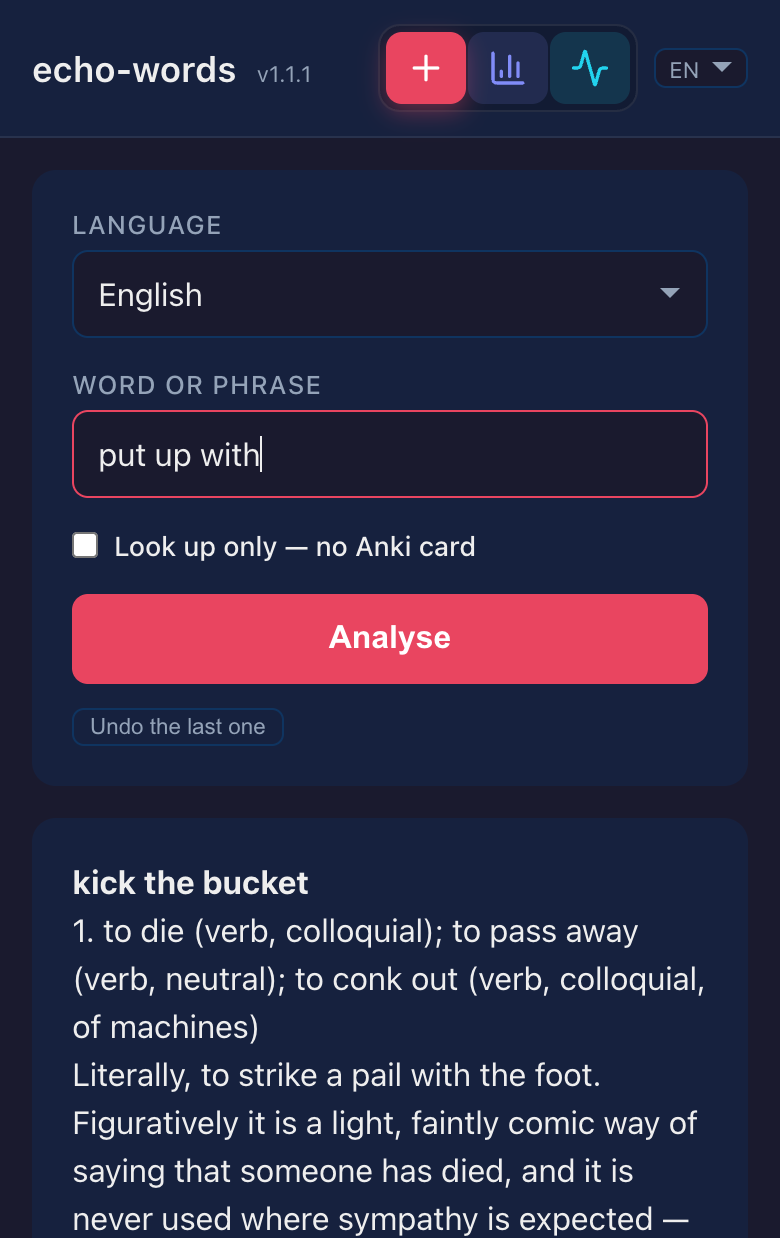
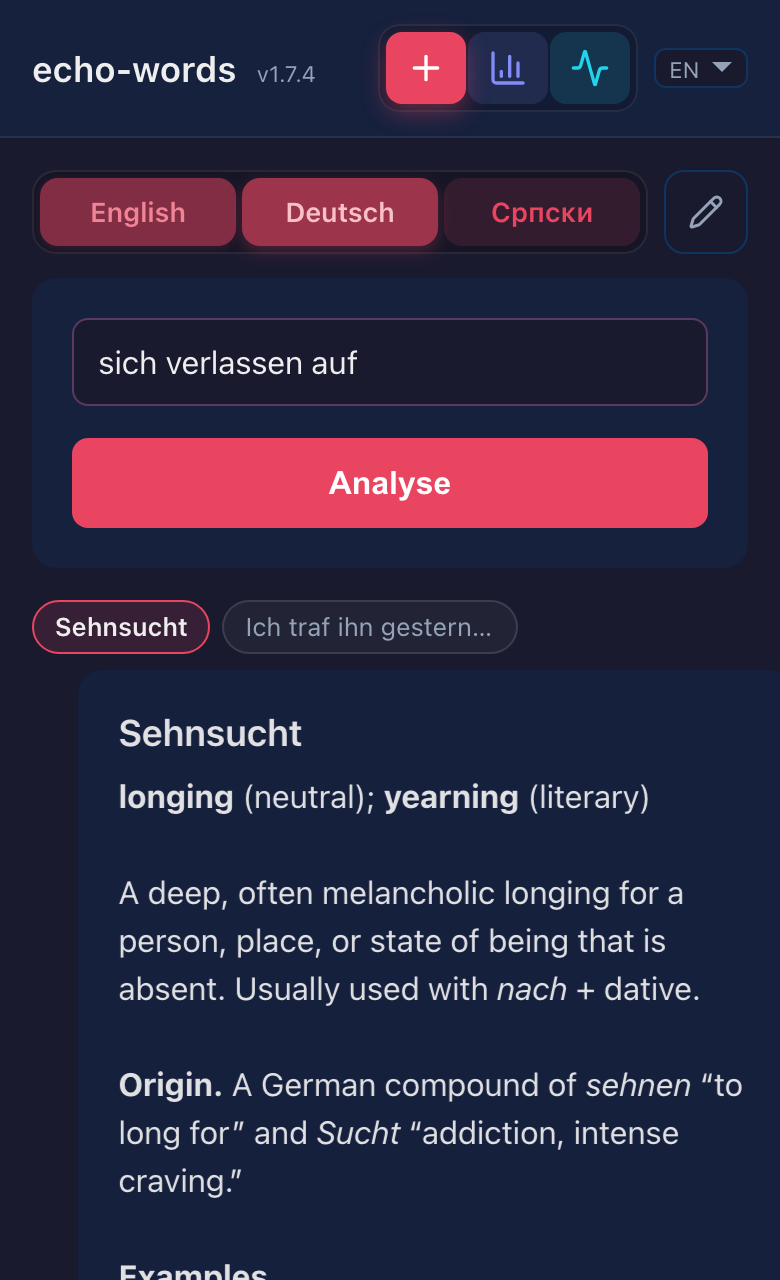
updated screenshots

diff --git a/scripts/capture_readme_screenshots.py b/scripts/capture_readme_screenshots.py
@@ -1,0 +1,202 @@
+"""Rebuild the PWA and capture the three README screenshots from stable demo data."""
+
+import argparse
+import asyncio
+import contextlib
+import io
+import subprocess
+import sys
+import threading
+import wave
+from collections.abc import Iterator
+from pathlib import Path
+
+import uvicorn
+from fastapi import FastAPI
+from fastapi.responses import Response, StreamingResponse
+from fastapi.staticfiles import StaticFiles
+from playwright.sync_api import sync_playwright
+
+REPO = Path(__file__).resolve().parents[1]
+SCREENSHOTS = REPO / "docs" / "common" / "images" / "screenshots"
+
+WORD_ENTRY = {
+    "entry_id": "word-demo",
+    "word": "Sehnsucht",
+    "lang": "de",
+    "language": "Deutsch",
+    "lookup_only": False,
+    "status": "done",
+    "shape": "unit",
+    "text": (
+        "<b>longing</b> (neutral); <b>yearning</b> (literary)\n\n"
+        "A deep, often melancholic longing for a person, place, or state of being "
+        "that is absent. Usually used with <i>nach</i> + dative.\n\n"
+        "<b>Origin.</b> A German compound of <i>sehnen</i> “to long for” and "
+        "<i>Sucht</i> “addiction, intense craving.”\n\n"
+        "<b>Examples</b>\n"
+        "<i>Ich habe große Sehnsucht nach dir.</i> — I miss you so much.\n"
+        "<i>Sie spürte Sehnsucht nach Freiheit.</i> — She yearned for freedom."
+    ),
+    "audio_url": "/demo.wav",
+    "segments": [
+        {
+            "label": "Sehnsucht",
+            "reason": "for a person",
+            "context": "Ich habe große Sehnsucht nach dir.",
+        },
+        {
+            "label": "Sehnsucht",
+            "reason": "for freedom",
+            "context": "Sie spürte Sehnsucht nach Freiheit.",
+        },
+    ],
+    "segment_kind": "senses",
+    "card_status": "added",
+    "card_kinds": [
+        "Recognition",
+        "Recall",
+        "ContextRecognition",
+        "ContextProduction",
+    ],
+    "detail_available": True,
+}
+
+SENTENCE = "Ich traf ihn gestern, weil er mir das Buch zurückgeben wollte."
+TEXT_ENTRY = {
+    "entry_id": "text-demo",
+    "word": SENTENCE,
+    "lang": "de",
+    "language": "Deutsch",
+    "lookup_only": False,
+    "status": "done",
+    "shape": "text",
+    "text": (
+        "<b>I met him yesterday because he wanted to give me the book back.</b>\n\n"
+        "<b>What is hard here</b>\n"
+        "<i>weil</i> sends the finite verb to the end of its clause, which is why "
+        "<i>wollte</i> comes last.\n\n"
+        "<i>zurückgeben</i> is separable, but beside the modal <i>wollen</i> it stays "
+        "as one infinitive.\n\n"
+        "<i>mir</i> is dative: it marks the person receiving the book without a "
+        "separate preposition."
+    ),
+    "audio_url": "/demo.wav",
+    "segments": [
+        {"label": "zurückgeben", "reason": "separable verb", "context": SENTENCE},
+        {"label": "weil", "reason": "word order", "context": SENTENCE},
+        {"label": "traf", "reason": "", "context": SENTENCE},
+        {"label": "gestern", "reason": "", "context": SENTENCE},
+        {"label": "wollte", "reason": "", "context": SENTENCE},
+        {"label": "Buch", "reason": "", "context": SENTENCE},
+    ],
+    "segment_kind": "text",
+    "card_status": None,
+    "card_kinds": [],
+    "detail_available": False,
+}
+
+
+def silent_wav() -> bytes:
+    buffer = io.BytesIO()
+    with wave.open(buffer, "wb") as audio:
+        audio.setnchannels(1)
+        audio.setsampwidth(2)
+        audio.setframerate(8_000)
+        audio.writeframes(b"\x00\x00" * 8_000 * 2)
+    return buffer.getvalue()
+
+
+app = FastAPI()
+
+
+@app.get("/api/languages")
+async def languages():
+    return [
+        {"code": "en", "name": "English"},
+        {"code": "de", "name": "Deutsch"},
+        {"code": "sr", "name": "Српски"},
+    ]
+
+
+@app.get("/api/words/recent")
+async def recent():
+    return [WORD_ENTRY, TEXT_ENTRY]
+
+
+@app.get("/api/events")
+async def events():
+    async def stream():
+        while True:
+            yield ": keep-alive\n\n"
+            await asyncio.sleep(10)
+
+    return StreamingResponse(stream(), media_type="text/event-stream")
+
+
+@app.get("/demo.wav")
+async def audio():
+    return Response(silent_wav(), media_type="audio/wav")
+
+
+app.mount("/", StaticFiles(directory=REPO / "_static", html=True), name="static")
+
+
+@contextlib.contextmanager
+def live_server() -> Iterator[str]:
+    server = uvicorn.Server(uvicorn.Config(app, host="127.0.0.1", port=0, log_level="warning"))
+    thread = threading.Thread(target=server.run, daemon=True)
+    thread.start()
+    for _ in range(200):
+        if server.started:
+            break
+        threading.Event().wait(0.05)
+    else:
+        raise RuntimeError("the screenshot server did not start")
+    port = server.servers[0].sockets[0].getsockname()[1]
+    try:
+        yield f"http://127.0.0.1:{port}"
+    finally:
+        server.should_exit = True
+        thread.join(timeout=10)
+
+
+def capture(*, build: bool = True) -> None:
+    if build:
+        subprocess.run(
+            [sys.executable, "-m", "invoke", "build-static"],
+            cwd=REPO,
+            check=True,
+        )
+    SCREENSHOTS.mkdir(parents=True, exist_ok=True)
+    with live_server() as url, sync_playwright() as playwright:
+        browser = playwright.chromium.launch(headless=True)
+        context = browser.new_context(
+            viewport={"width": 390, "height": 640},
+            device_scale_factor=2,
+            color_scheme="dark",
+            locale="en-US",
+        )
+        page = context.new_page()
+        page.goto(url, wait_until="networkidle")
+        page.get_by_role("tab", name="Deutsch", exact=True).click()
+        page.get_by_placeholder("a word or a phrase").fill("sich verlassen auf")
+        page.screenshot(path=SCREENSHOTS / "add-word.png")
+
+        page.get_by_placeholder("a word or a phrase").fill("")
+        page.get_by_role("tab", name="Sehnsucht", exact=True).click()
+        page.locator(".deck").screenshot(path=SCREENSHOTS / "card-added.png")
+
+        page.get_by_role("tab", name=SENTENCE, exact=True).click()
+        page.locator(".deck").screenshot(path=SCREENSHOTS / "sentence.png")
+        browser.close()
+
+
+if __name__ == "__main__":
+    parser = argparse.ArgumentParser(description=__doc__)
+    parser.add_argument(
+        "--skip-build",
+        action="store_true",
+        help="capture the already-built _static bundle",
+    )
+    capture(build=not parser.parse_args().skip_build)

diff --git a/tests/test_tasks.py b/tests/test_tasks.py
@@ -214,6 +214,14 @@ def test_deploy_builds_the_checked_out_commit_on_the_server(monkeypatch, tmp_pat
     assert context.commands == ["git rev-parse --verify --end-of-options 'main^{commit}'"]
 
 
+def test_readme_screenshots_are_captured_by_one_task():
+    context = _Context([""])
+
+    tasks.readme_screenshots.body(context)
+
+    assert context.commands == ["uv run python scripts/capture_readme_screenshots.py"]
+
+
 def test_remote_deploy_fails_closed_without_deleting_data_or_secrets():
     script = tasks._remote_deploy_script("a" * 40)
 

diff --git a/tasks.py b/tasks.py
@@ -197,6 +197,12 @@ def build_static(c: Context):
     _run_build(c)
 
 
+@task(name="readme-screenshots")
+def readme_screenshots(c: Context):
+    """Rebuild the PWA and capture README screenshots from stable demo data."""
+    c.run("uv run python scripts/capture_readme_screenshots.py")
+
+
 def _deploy_host() -> str:
     """Read the ssh destination from `.deploy/.env`, as dinary does; env overrides it."""
     override = os.environ.get("ECHOWORDS_DEPLOY_HOST", "").strip()

diff --git a/README.md b/README.md
@@ -2,12 +2,12 @@
 [![Coverage](https://raw.githubusercontent.com/andgineer/echo-words/python-coverage-comment-action-data/badge.svg)](https://htmlpreview.github.io/?https://github.com/andgineer/echo-words/blob/python-coverage-comment-action-data/htmlcov/index.html)
 # echo-words
 
-A private vocabulary tutor for every word you meet. Send a word, a phrase or a
-whole sentence, and echo-words explains what a dictionary will not: every sense
-with its register, how the word is really used, where it comes from, examples
-worth copying. Then it writes the flashcard for you — in both directions, with
-a real voice reading the word aloud — into the Anki deck you already review. It
-explains; Anki makes you remember.
+A private AI vocabulary tutor for every word you meet. Send a word, phrase, or
+whole sentence, and echo-words explains what a dictionary will not: distinct
+senses and registers, real usage, origins, and examples worth remembering. It
+also creates the Anki material for you — four cards that test one selected sense
+in both directions, with natural pronunciation — in the deck you already review.
+echo-words explains; Anki makes you remember.
 
 <table>
 <tr>
@@ -19,23 +19,18 @@ explains; Anki makes you remember.
 
 What one word gets you:
 
-* **an explanation, not a translation** — every target-language-distinct sense
-  with its register, the collocations and prepositions the word takes, what it is
-  confused with, its origin, and examples with their translations; an idiom or
-  phrase is explained as a whole and also offers its component words as chips
-* **one selected sense, reviewed four ways** — the unit and its translations are
-  asked in both directions, then its example is asked once highlighted and once
-  gapped; every sense remains available as a chip for a separate note
-* **a real voice, not a robot** — natural-sounding audio, in the app and on the
-  card
-* **a whole sentence gets a lesson instead** — translated, with what is hard in
-  it explained, and every word plus the expressions worth learning offered as
-  chips; tapping one creates its own four-card note
-* **a deeper entry when you want one** — one tap re-asks the strongest model for
-  a lexicographer's article: every sense including the rare ones, etymology in
-  depth, near-synonyms, the mistakes learners make
-* **nothing to pay** — a pool of free LLM providers answers; a paid model is
-  optional and capped
+* **an explanation, not just a translation** — distinct senses and registers,
+  collocations, prepositions, common confusions, origins, and translated examples;
+  a phrase is taught as a whole while its words remain available as chips
+* **one selected sense, reviewed four ways** — word and context test recognition
+  and production; every other sense stays one tap away from its own note
+* **a real voice, not a robot** — natural-sounding audio in the app and on the cards
+* **a whole sentence becomes a lesson** — echo-words translates it, explains the
+  hard parts, and turns every useful word or expression into a one-tap lesson
+* **a deeper entry on demand** — one tap asks the strongest model for rare senses,
+  deeper etymology, near-synonyms, and the mistakes learners make
+* **private and free by default** — tailnet-only, no application database, and a
+  pool of free LLM providers; the optional paid model is capped
 
 # Documentation
 
